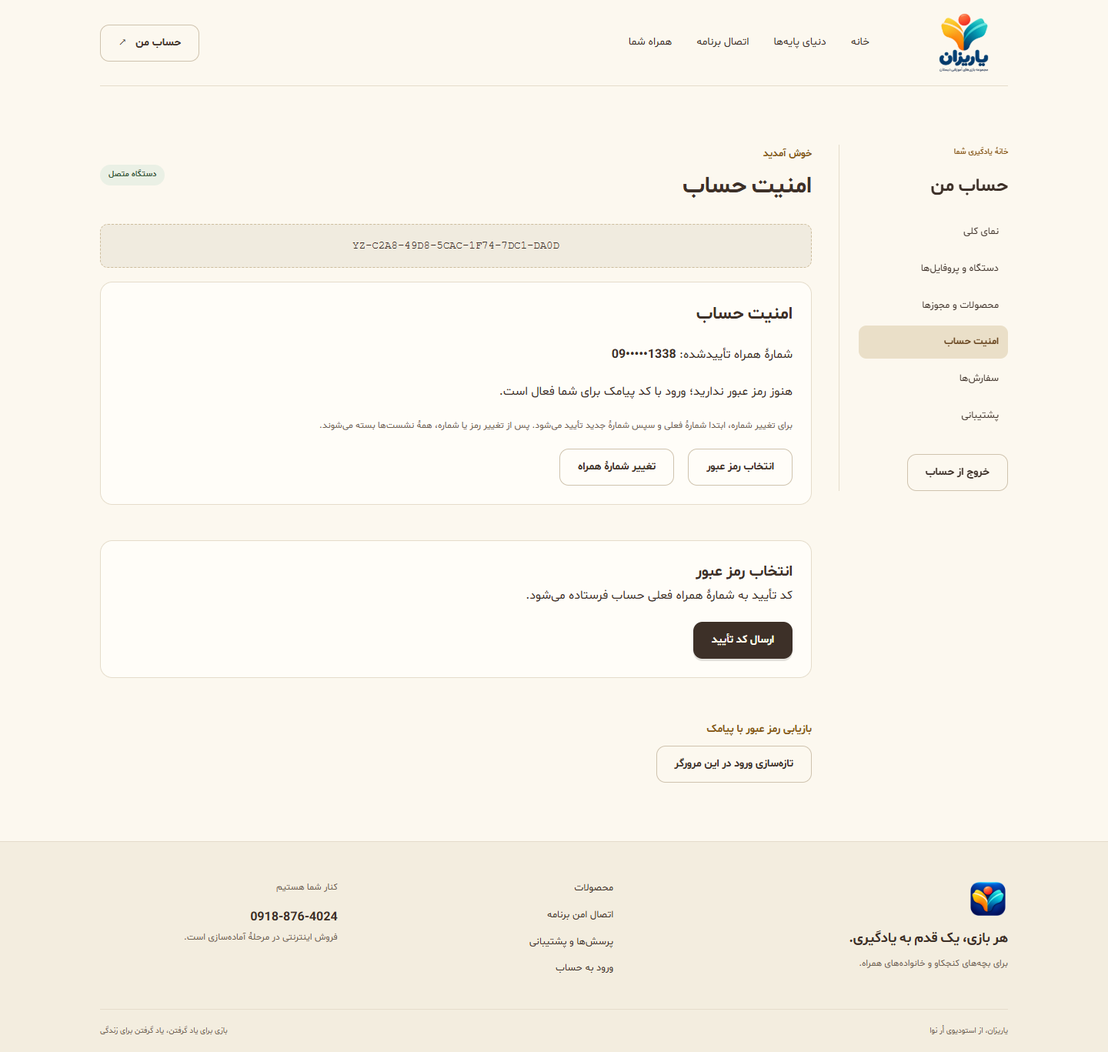
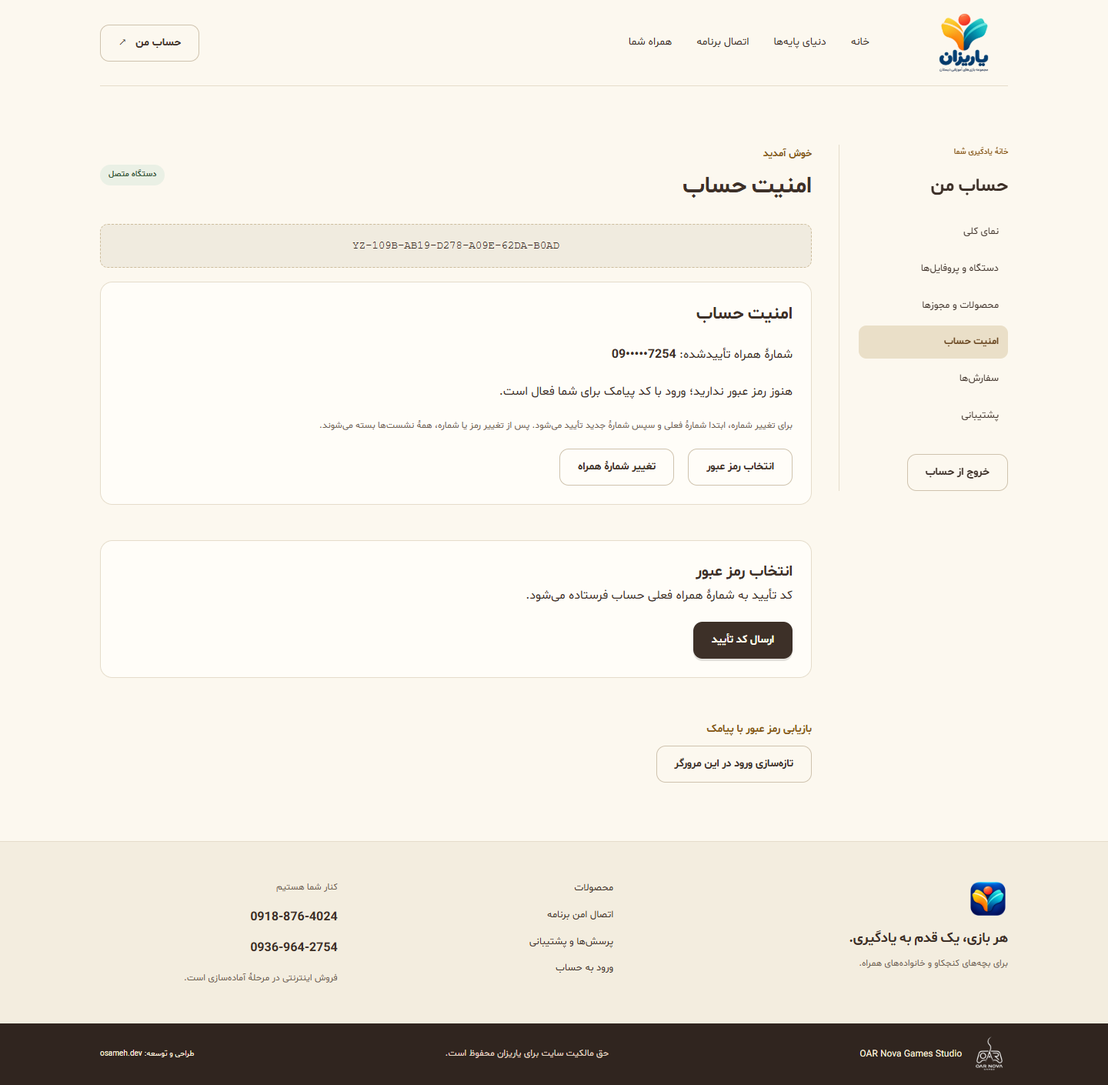
docs: record independent review fixes and regression evidence

diff --git a/docs/YARIZAN-PHASE-3-1-REPORT.md b/docs/YARIZAN-PHASE-3-1-REPORT.md
@@ -23,7 +23,7 @@ Configuration/docs: .env.example, Compose explicit SMS fields, web CI screenshot
 | Requirement | Status | Evidence/limit |
 |---|---|---|
 | A custom validation and errors | Implemented | All forms use novalidate FormShell, Persian inline/summary/ARIA/focus, safe API notices, retry/disabled states and custom route errors |
-| B1 first claim by mobile OTP, optional password | Implemented | Pairing/phone proof bound to captured machine generation; receipt only; no password required |
+| B1 first claim by mobile OTP, optional password | Implemented | Pairing/phone proof bound to captured machine generation; atomic initial browser session and safe receipt; no password required |
 | B2 independent password and OTP login | Implemented | Two UI choices, generic username/mobile challenge receipts, one-time verification/session |
 | B3 password set/change | Implemented | Existing verified-mobile proof, no locks across Argon2, final session/stamp recheck and all browser sessions revoked |
 | B4 mobile self-service reset | Implemented | OTP-based primary reset; independent support fallback for lost number/legacy accounts |
@@ -60,9 +60,9 @@ Migration checksums/ordering and fresh PostgreSQL catalog drift comparison pass.
 
 Full request/response table: [Auth and SMS contracts](YARIZAN-AUTH-AND-SMS-CONTRACTS.md). Generated implemented OpenAPI contains 60 controller routes and the unchanged five desktop artifact profiles. Frontend types are generated and drift checked.
 
-First claim: desktop proves its CNG key and creates a five-minute pairing; browser previews ID/code, verifies mobile OTP and approves without a required password. The browser receives only status, username and expiry. Fresh device-key CONFIRM pickup alone delivers enrollment/bearer; AUTH renewal/recovery remains desktop-only. Existing-owner approval for additional Windows profiles uses the existing cookie/CSRF, shared machine and trial budget. No browser proxy route forwards desktop challenges, pickup, bearer auth or private key material.
+First claim: desktop proves its CNG key and creates a five-minute pairing; browser previews ID/code, verifies mobile OTP and approves without a required password. The browser receives status, username, expiry, authenticated:true and first-claim csrf_token, with the customer session in an HttpOnly cookie. Initial session creation commits with the account/OTP/pairing; existing-owner approval preserves its current session. Fresh device-key CONFIRM pickup alone delivers enrollment/bearer; AUTH renewal/recovery remains desktop-only. Existing-owner approval for additional Windows profiles uses the existing cookie/CSRF, shared machine and trial budget. No browser proxy route forwards desktop challenges, pickup, bearer auth or private key material.
 
-Customer login supports username/password or username/mobile OTP. OTP reset is primary at /reset-password. Security shows masked mobile and password status, supports password set/change and both-number verification, and closes sessions after changes. Support-grant reset is explicitly separate at /support-reset for independently verified exceptional recovery. No email, fabricated SMS confirmation or username/HWID-only support authorization.
+Customer login defaults to username/mobile OTP; username/password remains an independent alternative. OTP reset is primary at /reset-password. Security shows masked mobile and password status, supports password set/change and both-number verification, and closes sessions after changes. Support-grant reset is explicitly separate at /support-reset for independently verified exceptional recovery. No email, fabricated SMS confirmation or username/HWID-only support authorization.
 
 Admin login is now primary password, then a fresh random SMS challenge, then session creation. TOTP DTOs are rejected. SMS MFA controls the recent-authentication clock; RBAC, exact Origin, CSRF, role filtering, reason/evidence, request IDs and optimistic revisions remain in force. Notes additionally require notes.manage and the entity's existing read permission. Notes cannot become an alternate route to another record's privileges.
 
@@ -80,7 +80,7 @@ Live blockers: real provider credentials/API entitlement, approved security/serv
 
 Fake mode is explicitly development/test-only. It records deterministic observable test delivery in memory; optional fixture delivery is encrypted under the synthetic local phone key, never an API mailbox. Local operator command `node --env-file=.env dist/src/accounts/read-fake-sms.js` (or Compose exec) shows only a current unused/unexpired synthetic code and masked target. This is explicit test delivery inspection, not application logging or real-provider code exposure. The OTP-aware pairing harness uses only explicit fake configuration and prints no code/credential/private key.
 
-Delivery is bounded to four concurrent in-process sends after persisted admission, with generic receipts independent of provider timing. No automatic retry follows an ambiguous timeout. Process interruption/failed delivery requires a fresh challenge after cooldown; durable carrier reconciliation is not claimed. Provider acceptance is not handset delivery. Key custody/rotation, re-encryption/blind-index migration, maintenance/retention and production delivery reliability remain reviewed deployment dependencies.
+Delivery reserves 20 total in-process slots, uses a FIFO with four concurrent sends and rejects excess admission uniformly before persistence, with generic receipts independent of provider timing. Expired/superseded queued proofs are skipped and audited. No automatic retry follows an ambiguous timeout. Process interruption/failed delivery requires a fresh challenge after cooldown; durable carrier reconciliation is not claimed. Provider acceptance is not handset delivery. Key custody/rotation, re-encryption/blind-index migration, maintenance/retention and production delivery reliability remain reviewed deployment dependencies.
 
 ## 7. Executed local validation
 
@@ -174,3 +174,66 @@ Footer refinement: retained the studio PNG's existing alpha transparency, remove
 Footer contrast follow-up: placed studio/developer credits and copyright in a full-width dark brown band, preserving transparent logo rendering and vertically centered logo/text with the logo on the right. Removed copyright paragraph margins to prevent a light bottom strip. Added the second phone to the support page. Local Docker production build, changed-component ESLint and real Edge checks passed at 1280px/390px: dark background, logo/text center alignment within one pixel, no bottom gap, no horizontal overflow, and main-content phone link. Evidence: 27-support-footer-1280.png and 27-support-footer-390.png.
 
 Copyright row refinement: all three desktop credit groups now share one vertically centered row (studio/logo, copyright, design/development). Studio logo uses an explicit 48px block box and unit line height to eliminate inline baseline spacing; logo remains on the right. Mobile wraps safely. Local Docker production build and ESLint passed; real Edge asserted three sibling groups, desktop group centers within one pixel, logo/text centers within one pixel and no mobile overflow. Screenshots: 28-footer-row-1280.png and 28-footer-row-390.png; desktop screenshot visually reviewed.
+
+
+## 12. Independent review final fixes (reviewed HEAD 2074522)
+
+Implementation starts from current clean feature HEAD b1475e7, preserving all intervening requested footer/contact changes. Reviewed 2074522 is an ancestor; no history rewrite. Checkpoints: badd739 (atomic first-claim sessions/bounded OTP admission) and 2875463 (OTP-default customer login/authenticated Connect). This section supersedes earlier receipt-only/no-initial-session and delivery-capacity descriptions. Current complete auth contracts are in YARIZAN-AUTH-AND-SMS-CONTRACTS.md.
+
+### Finding-by-finding resolution
+
+1. **Implemented:** first mobile claim consumes OTP, creates the account and initial eight-hour customer session, appends customer.login_claim and transitions pairing in one PostgreSQL transaction. Shared customerSession/sessionCookies helpers also serve existing password/OTP login and rotation. Cookies are set after commit: HttpOnly yz_customer, exact existing /api/v2 path, SameSite=Strict, configured Secure, readable synchronizer CSRF cookie and csrf_token. The JSON receipt adds authenticated:true and optional csrf_token, never session/desktop bearer/enrollment/key material. Existing-owner approval revalidates the owner's current session and does not create or replace one. Invalid/replayed/expired/cancelled/mismatched/consumed proofs cannot mint sessions. Three simultaneous same-pair claims plus competing first-claim tests produce one owner/initial session; forced audit failure rolls account/session/OTP/pairing back together. Connect offers /account directly; the browser E2E asserts exactly one claim OTP, zero LOGIN OTPs for that account and immediate authenticated dashboard access. Desktop pickup remains fresh key-proof-only.
+
+2. **Implemented:** customer login defaults to OTP, shown first. Password remains an independent alternative; Admin still begins with password and then SMS MFA. Existing pressed-button group semantics and native keyboard activation are retained. Browser tests assert initial selection, keyboard Enter/Space switching, password completion, OTP-default login completion and Admin primary fields.
+
+3. **Implemented:** bounded FIFO reserves 20 total in-process admission/delivery slots, including all decoys; at most four concurrent vendor calls. Excess/shutdown admission rejects explicitly with generic 503 SMS_UNAVAILABLE before challenge persistence. Every accepted request is enqueued, rather than silently dropped at four active calls. Matched and unmatched public requests use the same reservation/rate/receipt/error path and do not await vendor delivery. Workers check persisted expiry/used/superseded/delivered state immediately before dispatch, audit skipped/failing delivery and never automatically retry an ambiguous timeout. Graceful shutdown closes admission, audits queued interruption, drains active calls and only then closes PostgreSQL. Database teardown moved from module destruction to application shutdown; CLI/bootstrap/test callers use the renamed close hook.
+
+No new migration, dependency, provider credential, endpoint, service or broker. Eight migrations and five signed desktop artifact profiles are unchanged. Implemented OpenAPI still has 60 routes; claim and confirm schemas now document browser session receipt fields and confirm's OTP input. Strict C# test receipt verification is updated without relaxing production desktop signed verification.
+
+### Changed files
+
+- backend/src/accounts/sessions.ts: shared transaction-local customer session creation and cookie writer.
+- backend/src/accounts/accounts.ts, auth-flows.ts; backend/src/identity/identity.ts; backend/src/api/controllers.ts: session reuse, atomic claim and safe response.
+- backend/src/accounts/otp.ts: bounded queue, uniform admission, stale checks and shutdown/failure handling.
+- backend/src/database/database.ts, migrate.ts, seed.ts; accounts/read-fake-sms.ts; tools/check-schema.mjs, provision-admin.mjs; apps/web/tools/test-api.mjs: PostgreSQL closes after delivery drain.
+- backend/test/integration.test.ts: seven new PostgreSQL/session/queue tests; existing safe-receipt expectations extended. Existing adapter/fake/MFA/security suites remain active.
+- apps/web/app/components/AuthAccess.vue, pages/connect.vue; tests/e2e/auth-31.spec.ts, portals.spec.ts: OTP default, authenticated continuation and browser regressions.
+- backend/tools/check-contracts.mjs, docs/YARIZAN-OPENAPI-BACKEND-V2.json, apps/web/shared/api.generated.ts; tests/BackendInterop/ProvisioningTransportChecks.cs: exact browser receipt contract updates.
+- Auth/SMS contracts, this report and refreshed application screenshots, including 29-first-claim-authenticated.png and 30-login-otp-default.png. Both new images were visually inspected; neither contains OTP/session/desktop secrets.
+
+### Executed local validation
+
+Windows 10.0.26300.0; Node 24.20.0/npm 12.0.2; .NET SDK 10.0.401 targeting .NET 9/runtime 9.0.20; isolated PostgreSQL 17.11; Edge 155.0.4283.45. No external SMS or production services. Exact commands run from the named directory:
+
+| Directory | Commands | Actual result |
+|---|---|---|
+| backend | npm run build; npm test | 136 passed; 0 failed/skipped/cancelled; 57.54s. Real PostgreSQL, 7 new review tests. |
+| backend | npm run lint; npm run format:check; npm run check:contracts; npm run check:secrets | passed; 60 routes/5 desktop profiles; 61 tracked text files, no secret matches |
+| backend | node tools/check-schema.mjs with explicit synthetic NODE_ENV=test/DATABASE_URL and three original synthetic keys | all eight migrations/five catalog groups match fresh disposable reference database |
+| backend | npx --yes @redocly/cli@2.63.0 lint ../docs/YARIZAN-OPENAPI-BACKEND-V2.json | valid; two expected warnings for retired 410-only routes |
+| apps/web | npm run contracts:check; npm run typecheck; npm run lint; npm run format:check; npm run build; npm test | passed; 14 unit/component tests |
+| apps/web | PLAYWRIGHT_CHANNEL=msedge npm run test:e2e (PowerShell env assignment) | 26 passed, 0 failed, 53.9s; real API/PostgreSQL and C# browser callback |
+| root | docker build -t yarizan-backend-fixture backend | passed; synthetic non-root image, no embedded signing key |
+| backend | node tools/check-runtime-env.mjs yarizan-backend-fixture with RUNTIME_DOCKER_NETWORK=yarizan-v2-local_default and disposable RUNTIME_DATABASE_URL=postgresql://yarizan:local-disposable@db:5432/yarizan_phase2_test | missing/empty/staging/production refused; development/test migrated, seeded, ready, signing mode and graceful shutdown passed |
+| root | powershell.exe -NoProfile -File tests/Run-V2Checks.ps1 | 298 passed/0 failed; two conditional physical clipboard round-trips NOT executed because OS clipboard unavailable. Injected clipboard/error checks passed. Non-elevated token, TPM-preferred selected TPM; no source change to Windows checks. |
+| root | powershell.exe -NoProfile -File tests/Run-AccessChecks.ps1; Run-LauncherChecks.ps1; Run-GradeChecks.ps1; Run-BookChecks.ps1 (each via its own PowerShell process) | 27 access, 8 launcher, 5 grade groups, 36 book passed; 374 local checks/groups total including V2; two physical clipboard checks unavailable, distinct from hosted baseline 376 |
+| root | python tools/Check-PublicRepository.py; git diff --check | passed |
+| backend/apps/web | npm audit --audit-level=high / npm run audit:dependencies | backend zero vulnerabilities; web runtime high/critical zero; existing explicit build-advisory policy passes with disclosed unpatched findings, not a clean full build-tree audit |
+
+The backend suite executed real C# verifier24/API10/provisioning24 (software adapter) plus 25 actual Windows CNG SOFTWARE/DPAPI checks. The browser suite separately executed the 25-check Windows CNG/DPAPI callback integration. These prove test-key interoperability and protected storage; no physical hardware ownership/commercial signing acceptance is claimed. Local logs remain ignored under backend/.local/review-final-* and apps/web/.local/review-final-browser.log.
+
+During validation, the strict C# test initially rejected the intentionally extended receipt, a new rollback assertion initially expected HTTP500 rather than the existing sanitized503, and a password browser regression initially assumed the old default. Those tests were corrected to assert the new approved contract/default; full reruns above passed. An initial schema command omitted its disposable DATABASE_URL; rerun with explicit test configuration passed. These are not reported as successful initial runs.
+
+Backend/web implementation CI on 2875463 passed (136 backend; 14 unit and 26 Chromium browser in 36.9s); Windows V2 checks passed and the workflow was finishing API lint at this evidence snapshot. Implementation CI is linked below; final evidence-only HEAD and its exact run links are recorded in Draft PR #3/final delivery after all workflows finish. No runtime changes are intended after this checkpoint.
+
+- [Backend review CI](https://github.com/osameh15/YariZan/actions/runs/38764181479)
+- [Web/provisioning review CI](https://github.com/osameh15/YariZan/actions/runs/38764181423)
+- [Windows review CI](https://github.com/osameh15/YariZan/actions/runs/38764181366)
+
+### Residual risks and safety
+
+The queue is process-local and bounded, not a durable SMS outbox: abrupt process/database failure can lose a queued plaintext code or final delivery audit. Persisted undelivered challenges remain unusable; restart never resends old codes, and the customer must request a fresh challenge after cooldown. Already-dispatched vendor calls cannot be recalled if expiry/supersession occurs during the call. Provider acceptance is not handset delivery. No automatic ambiguous-timeout retry or production reliability claim. Commercial startup and real SMS remain closed; live MeliPayamak credentials/template/carrier acceptance, hardware first-claim assurance/disputes, production signing custody and physical Windows endurance acceptance remain blockers. Existing build-only dependency findings remain disclosed.
+
+Main stays e7af35f1771c7d85277aea338a26c957176adb85. Production/staging/live infrastructure, PHP/MySQL, DNS/Traefik, real customer data, payment/SMS services and commercial signing keys are unchanged. No merge, deployment, force-push, live provider call or production key generation. Draft PR #3 stays Draft for independent review.
+
+Local Compose was rebuilt and restarted with explicit fake SMS. `node --env-file=.local/demo.env .local/31-compose-smoke.mjs` passed SSR RTL/catalog/closed gate, primary Admin admission without session, encrypted synthetic SMS inspection, and SMS verification with HttpOnly cookie. The initial invocation without the env file refused the fake-provider guard; no live call was made. Preview remains local at http://localhost:3200.

diff --git a/docs/YARIZAN-AUTH-AND-SMS-CONTRACTS.md b/docs/YARIZAN-AUTH-AND-SMS-CONTRACTS.md
@@ -6,7 +6,7 @@ Phase 3.1 supersedes the password-first browser claim and TOTP Admin login descr
 
 Public username remains the deterministic device username. Mobile verification proves receipt of a phone message, not physical possession of genuine hardware. Multiple authorized Windows profiles retain one machine UUID, owner generation, purchased entitlements and trial allocation. The browser approves; only fresh device-key proof receives enrollment/credential pickup. The five desktop signed-artifact response profiles, ADR-0004 domains, offline paid verification and indefinite current-process trial continuation are unchanged.
 
-Passwords are optional independent login credentials. New accounts can be created without one. Login with password does not require SMS. Password setting/changing requires the current verified phone OTP; changing phone verifies both numbers. Credential changes close all customer sessions. Admin authentication requires password followed by a random SMS OTP, with no TOTP fallback. Existing Admins must be independently enrolled with a verified phone by an authorized operator; old TOTP ciphertext is historical and never authenticates an API request. Migration revokes pre-SMS Admin sessions; active sessions require explicit mfa_method=SMS. New active customers are constrained to verified mobile, while migrated password accounts may attach their first phone.
+Customer login initially selects SMS OTP; keyboard-accessible password login remains an independent alternative. Admin login remains password followed by SMS MFA. Passwords are optional independent login credentials. New accounts can be created without one. Login with password does not require SMS. Password setting/changing requires the current verified phone OTP; changing phone verifies both numbers. Credential changes close all customer sessions. Admin authentication requires password followed by a random SMS OTP, with no TOTP fallback. Existing Admins must be independently enrolled with a verified phone by an authorized operator; old TOTP ciphertext is historical and never authenticates an API request. Migration revokes pre-SMS Admin sessions; active sessions require explicit mfa_method=SMS. New active customers are constrained to verified mobile, while migrated password accounts may attach their first phone.
 
 ## Browser contracts
 
@@ -15,8 +15,8 @@ All paths below are prefixed `/api/v2`. Browser POST requires exact configured O
 | Method/path | Body | Success |
 |---|---|---|
 | POST `/auth/claim/otp/request` | pairing_id, pairing_secret, mobile | challenge_id, expires_in:300, retry_after:60 |
-| POST `/auth/claim` | pairing_id, pairing_secret, otp:{challenge_id,code}; optional password | APPROVED, public username, expiry only |
-| POST `/device-pairings/:id/confirm` | same claim fields except ID in route | same receipt; existing owner instead uses session/CSRF |
+| POST `/auth/claim` | pairing_id, pairing_secret, otp:{challenge_id,code}; optional password | APPROVED, public username, expiry, authenticated:true; first claim also sets customer cookies and returns csrf_token |
+| POST `/device-pairings/:id/confirm` | same claim fields except ID in route | same receipt; existing owner uses its session/CSRF and receives no new session/cookies or csrf_token |
 | POST `/auth/login` | username, password | customer cookies + csrf_token |
 | POST `/auth/otp/request` | username, mobile, purpose:LOGIN or RESET | generic challenge receipt |
 | POST `/auth/otp/verify` | challenge_id, code | customer cookies + csrf_token |
@@ -39,6 +39,14 @@ Security changes: PASSWORD sends to the existing phone. MOBILE_OLD sends to the 
 
 Support fallback remains `/auth/password-reset/complete` with a scoped one-time grant issued through existing permission/evidence/revision controls. The UI is `/support-reset`, linked under an explicit support-grant explanation. Self-service SMS at `/reset-password` is primary. Support cannot read passwords or bypass independent ownership confirmation. A support reset does not directly replace the verified mobile.
 
+## Initial claim and browser session atomicity
+
+First claim consumes its pairing-bound OTP, creates the verified-mobile account, inserts exactly one eight-hour customer session (hashed token/CSRF only), appends customer.login_claim and transitions the pairing under the same PostgreSQL transaction. Device/generation/pairing/OTP locks and final revalidation prevent concurrent claims from creating additional owners or initial sessions. Audit/signing-independent transaction failure rolls everything back; no cookies are set before commit. The shared session creator/cookie writer is also used by password/OTP login and rotation.
+
+After commit the browser gets HttpOnly yz_customer (Path=/api/v2, SameSite=Strict, Secure in production), the existing readable synchronizer CSRF cookie (Path=/), and browser-safe receipt status/username/expires_at/authenticated plus csrf_token. Session values never enter response JSON or Nuxt payloads. Exact Origin, no-store and owner CSRF checks remain. Existing-owner profile confirmation revalidates its session and returns authenticated:true without minting/replacing a session. Replays, expired/cancelled pairings, changed generation, consumed/mismatched OTP and failed transactions set no new cookies. Lost first-claim cookie delivery requires normal login; replay does not mint a replacement session.
+
+Connect links directly to /account after approval. This is browser authentication only: fresh device-key proof remains the sole enrollment/desktop-credential pickup path. The browser never receives a desktop bearer, enrollment artifact, private key or reusable desktop proof. The retired register/desktop-confirm endpoints remain closed.
+
 ## OTP authority and delivery rules
 
 - Six cryptographically random digits; five-minute expiry; five admitted verification attempts persisted transactionally, including failures.
@@ -46,8 +54,8 @@ Support fallback remains `/auth/password-reset/complete` with a scoped one-time 
 - One consumption under row lock; parallel verifications create at most one business effect/session. Customer/device generation, principal, session, phone and credential stamp are rechecked where relevant. Cheap proof/binding admission precedes password hashing; no database locks span Argon2id.
 - New requests retire previous unused proofs for the same purpose and principal/pairing (even when the proposed phone changes); decoy requests are isolated by phone. Fresh codes do not expand desktop trial quota.
 - One request per fixed 60-second purpose/phone bucket for public login/reset, independent of whether the principal exists; other flows additionally scope to principal/pairing; six per phone/hour; 200 global/hour; customer security requests six/account/hour; first claim three/pair/hour. Existing per-IP request/verify/primary-password budgets and global password-work concurrency remain active. Bucket boundaries are documented fixed windows, not a claimed precise rolling timer.
-- Provider delivery concurrency is bounded to four. Admission persists before delivery; provider exceptions are reduced to generic unavailability metadata, never raw responses or credentials. `delivered` means provider acceptance, not handset receipt.
-- No automatic retry after an ambiguous provider timeout. Request a new challenge after cooldown; old proofs retire. Interrupted in-process delivery fails closed and requires a fresh request. This phase does not claim durable carrier-delivery reconciliation; deployment/reliability review remains required.
+- One process reserves at most 20 total delivery/admission slots and runs at most four vendor calls. Accepted requests enter a FIFO; excess or shutdown admission returns generic 503 SMS_UNAVAILABLE before creating a challenge. Matched and unknown/decoy requests reserve the same capacity and use identical receipts/errors without waiting for vendor timing. Decoys never contact a phone. Admission and otp.requested audit persist together before dispatch; provider exceptions are reduced to generic unavailability metadata, never raw responses or credentials. `delivered` means provider acceptance, not handset receipt.
+- Immediately before dispatch, the worker checks PostgreSQL expiry, used/superseded state and prior delivery. Delayed expired/superseded requests are not sent and are audited as unavailable. Graceful shutdown closes admission, audits queued interruption, drains already-started bounded calls, then closes PostgreSQL. An already-issued vendor request cannot be recalled if expiry/supersession occurs during the network call. No automatic retry after an ambiguous provider timeout. Request a new challenge after cooldown; old proofs retire. Interrupted in-process delivery fails closed and requires a fresh request. The queue is intentionally in-process: abrupt process termination loses pending plaintext codes and delivery intent; persisted undelivered challenges fail closed, require a fresh request after cooldown and are never replayed automatically on restart. Graceful interruption is audited where PostgreSQL remains available; a crash/database outage cannot guarantee a final audit event. This phase does not claim durable carrier-delivery reconciliation or exactly-once handset delivery; deployment/reliability review remains required.
 - Audit actions include otp.requested/sent/verified/verification_failed/delivery_unavailable, customer/admin login success/failure, password set/change/reset, mobile change and note create/update. Metadata excludes OTPs, mobile plaintext, password hashes and note content.
 
 ## MeliPayamak adapter
